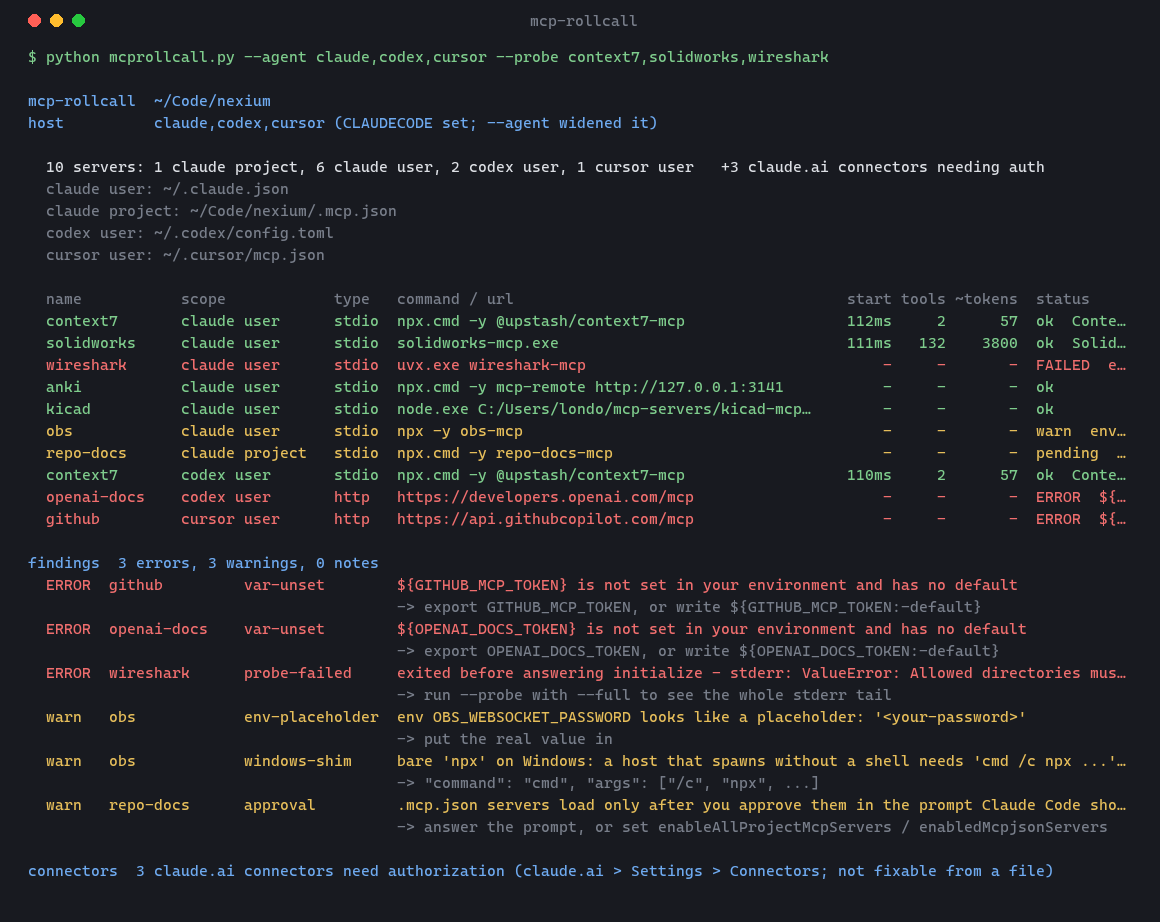
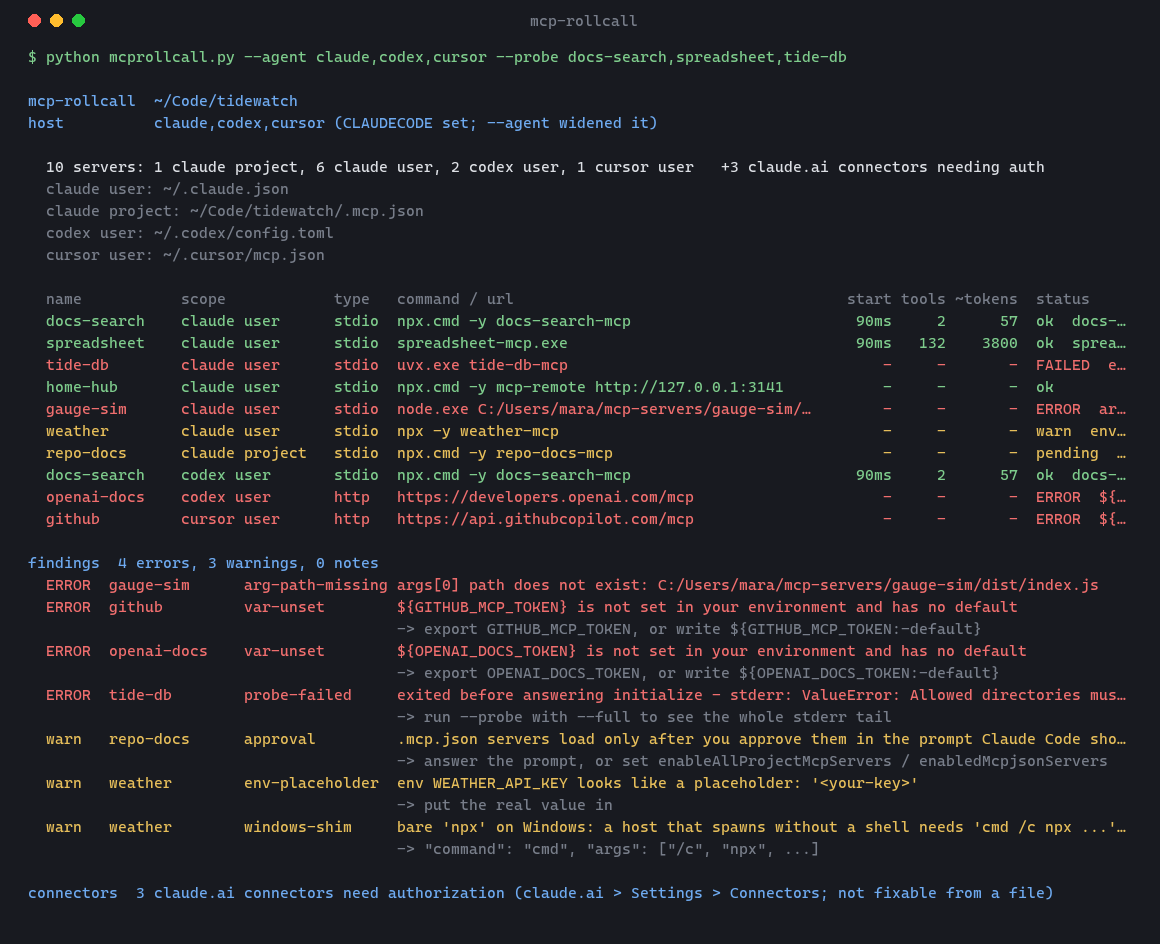
Demo and README examples use a fictional project (tidewatch), not real repos, paths or identities

diff --git a/docs/make_demo.py b/docs/make_demo.py
@@ -39,7 +39,7 @@ def free_port() -> int:
 def main() -> None:
     with tempfile.TemporaryDirectory() as tmp:
         t = Path(tmp)
-        home, proj, cj, managed = t / "home", t / "Code" / "nexium", t / "claude.json", t / "managed"
+        home, proj, cj, managed = t / "home", t / "Code" / "tidewatch", t / "claude.json", t / "managed"
         claude_home = home / ".claude"
         claude_home.mkdir(parents=True); proj.mkdir(parents=True); managed.mkdir()
         py = sys.executable
@@ -48,25 +48,25 @@ def main() -> None:
         # the same context7 for Codex, plus a Codex-only docs server missing its token
         (home / ".codex").mkdir()
         (home / ".codex" / "config.toml").write_text(
-            f'[mcp_servers.context7]\ncommand = "{pyq}"\nargs = ["{fakeq}", "ok", "2"]\n\n'
+            f'[mcp_servers.docs-search]\ncommand = "{pyq}"\nargs = ["{fakeq}", "ok", "2"]\n\n'
             '[mcp_servers.openai-docs]\nurl = "https://developers.openai.com/mcp"\nbearer_token_env_var = "OPENAI_DOCS_TOKEN"\n')
         # Cursor: a remote github server with an ${env:} header
         (home / ".cursor").mkdir()
         (home / ".cursor" / "mcp.json").write_text(json.dumps({"mcpServers": {
             "github": {"url": "https://api.githubcopilot.com/mcp", "headers": {"Authorization": "Bearer ${env:GITHUB_MCP_TOKEN}"}}}}))
         servers = {
-            "context7":   {"command": py, "args": [FAKE, "ok", "2"]},
-            "solidworks": {"command": py, "args": [FAKE, "ok", "132"]},
-            "wireshark":  {"command": py, "args": [FAKE, "crash"], "env": {"WIRESHARK_MCP_ALLOWED_DIRS": "C:\\Users\\londo\\Downloads;C:\\Users\\londo\\captures"}},
-            "anki":       {"command": py, "args": [FAKE, "ok", "0", f"http://127.0.0.1:{free_port()}"]},
-            "kicad":      {"command": "C:\\Program Files\\nodejs\\node.exe", "args": ["C:\\Users\\londo\\mcp-servers\\kicad-mcp\\dist\\index.js"]},
-            "obs":        {"command": "npx", "args": ["-y", "obs-mcp"], "env": {"OBS_WEBSOCKET_PASSWORD": "<your-password>"}},
+            "docs-search": {"command": py, "args": [FAKE, "ok", "2"]},
+            "spreadsheet": {"command": py, "args": [FAKE, "ok", "132"]},
+            "tide-db":     {"command": py, "args": [FAKE, "crash"], "env": {"TIDE_DB_ALLOWED_DIRS": "~/tidewatch/data;~/tidewatch/exports"}},
+            "home-hub":    {"command": py, "args": [FAKE, "ok", "0", f"http://127.0.0.1:{free_port()}"]},
+            "gauge-sim":   {"command": "C:\\Program Files\\nodejs\\node.exe", "args": ["C:\\Users\\mara\\mcp-servers\\gauge-sim\\dist\\index.js"]},
+            "weather":     {"command": "npx", "args": ["-y", "weather-mcp"], "env": {"WEATHER_API_KEY": "<your-key>"}},
         }
         (claude_home / "mcp-needs-auth-cache.json").write_text(json.dumps({f"plugin:x:{n}": {"timestamp": 1} for n in ("slack", "notion", "linear")}))
         cj.write_text(json.dumps({"mcpServers": servers, "projects": {}}))
         (proj / ".mcp.json").write_text(json.dumps({"mcpServers": {"repo-docs": {"command": py, "args": [FAKE, "ok", "4"]}}}))
-        pretty = {"context7": "npx.cmd -y @upstash/context7-mcp", "solidworks": "solidworks-mcp.exe",
-                  "wireshark": "uvx.exe wireshark-mcp", "anki": "npx.cmd -y mcp-remote http://127.0.0.1:3141",
+        pretty = {"docs-search": "npx.cmd -y docs-search-mcp", "spreadsheet": "spreadsheet-mcp.exe",
+                  "tide-db": "uvx.exe tide-db-mcp", "home-hub": "npx.cmd -y mcp-remote http://127.0.0.1:3141",
                   "repo-docs": "npx.cmd -y repo-docs-mcp"}
         real_cmdline = mcprollcall.cmdline
         mcprollcall.cmdline = lambda s: pretty.get(s.name) or real_cmdline(s)
@@ -75,16 +75,16 @@ def main() -> None:
             mcprollcall.main(["--project", str(proj), "--home", str(home), "--claude-home", str(claude_home),
                               "--claude-json", str(cj), "--managed-dir", str(managed), "--no-plugins",
                               "--agent", "claude,codex,cursor", "--no-net",
-                              "--probe", "context7,solidworks,wireshark", "--timeout", "15"])
+                              "--probe", "docs-search,spreadsheet,tide-db", "--timeout", "15"])
         mcprollcall.cmdline = real_cmdline
-        out = (buf.getvalue().replace(str(cj), "~/.claude.json").replace(str(proj), "~/Code/nexium")
+        out = (buf.getvalue().replace(str(cj), "~/.claude.json").replace(str(proj), "~/Code/tidewatch")
                .replace(str(home), "~").replace(str(t), "~").replace("\\", "/"))
         out = out.replace("(--agent)", "(CLAUDECODE set; --agent widened it)")
         out = re.sub(r"127\.0\.0\.1:\d+", "127.0.0.1:3141", out)
-        out = out.replace("fake 0.1", "Context7 4.1.1", 1).replace("fake 0.1", "SolidWorks MCP Server 4.0.3", 1).replace("fake 0.1", "Context7 4.1.1", 1)
+        out = out.replace("fake 0.1", "docs-search 2.3.0", 1).replace("fake 0.1", "spreadsheet-mcp 1.8.2", 1).replace("fake 0.1", "docs-search 2.3.0", 1)
         out = out.replace("ValueError: Allowed directories must already exist", "ValueError: Allowed directories must already exist and be directories")
 
-    lines = ["$ python mcprollcall.py --agent claude,codex,cursor --probe context7,solidworks,wireshark", ""] + out.rstrip().splitlines()
+    lines = ["$ python mcprollcall.py --agent claude,codex,cursor --probe docs-search,spreadsheet,tide-db", ""] + out.rstrip().splitlines()
     lines = [l if len(l) <= 122 else l[:121] + "…" for l in lines]
     font = ImageFont.truetype(str(FONT), 15)
     lh, pad, width = 22, 28, 1160

diff --git a/skills/mcp-rollcall/scripts/mcprollcall.py b/skills/mcp-rollcall/scripts/mcprollcall.py
@@ -11,7 +11,7 @@ tool list the host hides.
     python mcprollcall.py                     static roll call: sources, commands, paths, env, ports
     python mcprollcall.py --agent codex       another host's config files (or `all`)
     python mcprollcall.py --probe             spawn every stdio server; handshake, tools, cost, stderr
-    python mcprollcall.py --probe anki,obs    only these
+    python mcprollcall.py --probe a,b        only these
     python mcprollcall.py --project DIR       the project whose .mcp.json and local servers count
     python mcprollcall.py --timeout 30        seconds to wait for a handshake (default 20)
     python mcprollcall.py --no-net            skip the TCP reachability checks

diff --git a/README.md b/README.md
@@ -20,9 +20,9 @@
 
 ---
 
-Claude Code says `anki (CONNECTION_CLOSED)` and moves on. Codex says the server "failed to initialize". Cursor shows a red dot. Was it the command? A path? An env var? The app it bridges to isn't running? The server threw on startup? The host saw the answer — it read the stderr, it got the exit code — and discarded it. And each host keeps its servers in a different file, so "what do I have configured" is already five files deep.
+Claude Code says `home-hub (CONNECTION_CLOSED)` and moves on. Codex says the server "failed to initialize". Cursor shows a red dot. Was it the command? A path? An env var? The app it bridges to isn't running? The server threw on startup? The host saw the answer — it read the stderr, it got the exit code — and discarded it. And each host keeps its servers in a different file, so "what do I have configured" is already five files deep.
 
-`mcp-rollcall` reads every place a server can be configured for the host you're in (or all of them), checks each one the way the host would try to start it, and on request actually starts it, does the MCP handshake, and shows you what came back: the tool list, the startup time, the context cost, or the traceback. It runs as a skill (`/mcp-rollcall` in Claude Code, `$mcp-rollcall` in Codex, or just say "why did anki fail to connect") and as a plain CLI.
+`mcp-rollcall` reads every place a server can be configured for the host you're in (or all of them), checks each one the way the host would try to start it, and on request actually starts it, does the MCP handshake, and shows you what came back: the tool list, the startup time, the context cost, or the traceback. It runs as a skill (`/mcp-rollcall` in Claude Code, `$mcp-rollcall` in Codex, or just say "why did home-hub fail to connect") and as a plain CLI.
 
 ## What it does
 
@@ -70,7 +70,7 @@ cp -r mcp-rollcall/skills/mcp-rollcall ~/.config/opencode/skills/ # OpenCode
 
 ### From your agent
 
-Say what you'd naturally say — "why did wireshark fail to connect?", "what MCP servers do I have?", "which servers are eating my context?", "is this .mcp.json OK?", "does Cursor have the same servers as Claude?" — or invoke the skill by name. The agent runs the static pass for the host you're in, probes the server you asked about if it's still unexplained, quotes the stderr line that matters, and tells you the fix. It won't edit config for you (Claude Code's running app rewrites `~/.claude.json`); it gives you the `claude mcp add` line, or the `config.toml` / `mcp.json` entry to change.
+Say what you'd naturally say — "why did tide-db fail to connect?", "what MCP servers do I have?", "which servers are eating my context?", "is this .mcp.json OK?", "does Cursor have the same servers as Claude?" — or invoke the skill by name. The agent runs the static pass for the host you're in, probes the server you asked about if it's still unexplained, quotes the stderr line that matters, and tells you the fix. It won't edit config for you (Claude Code's running app rewrites `~/.claude.json`); it gives you the `claude mcp add` line, or the `config.toml` / `mcp.json` entry to change.
 
 ### As a CLI
 
@@ -80,7 +80,7 @@ Stdlib-only Python, nothing in it depends on any particular agent:
 python ~/.claude/skills/mcp-rollcall/scripts/mcprollcall.py                       # host detected from the environment
 python ~/.agents/skills/mcp-rollcall/scripts/mcprollcall.py --agent codex          # Codex's config.toml
 python ~/.claude/skills/mcp-rollcall/scripts/mcprollcall.py --agent all --probe    # everything on this machine, probed
-python ~/.claude/skills/mcp-rollcall/scripts/mcprollcall.py --probe wireshark --full
+python ~/.claude/skills/mcp-rollcall/scripts/mcprollcall.py --probe tide-db --full
 ```
 
 | Flag | Effect |
@@ -118,8 +118,8 @@ Same name in two hosts' files = two servers (they start independently). Same nam
 |---|---|---|---|
 | `command-missing` | error | `uvx` not installed | install uv, or use the full path |
 | `arg-path-missing` / `cwd-missing` | error | `dist/index.js` moved; Codex `cwd = "./tools"` gone | — |
-| `var-unset` | error | `${OBSIDIAN_VAULT}`, `${env:TOKEN}`, `bearer_token_env_var = "X"`, Gemini `$VAR` — no value, no default | `export` it, or `${VAR:-default}` |
-| `port-closed` | error | `mcp-remote http://127.0.0.1:3141` and Anki isn't open | start the app that hosts it |
+| `var-unset` | error | `${TIDE_DB_URL}`, `${env:TOKEN}`, `bearer_token_env_var = "X"`, Gemini `$VAR` — no value, no default | `export` it, or `${VAR:-default}` |
+| `port-closed` | error | `mcp-remote http://127.0.0.1:3141` and the desktop app it bridges to isn't open | start the app that hosts it |
 | `probe-failed` | error | `ValueError: Allowed directories must already exist` | the stderr tail |
 | `denied` / `not-allowed` / `excluded` | error | Claude `deniedMcpServers`, Gemini `mcp.excluded` | — |
 | `envfile-missing` (Cursor) / `input-undefined` (VS Code) | error | `"envFile": ".env"` absent; `${input:key}` with no `inputs` entry | — |
